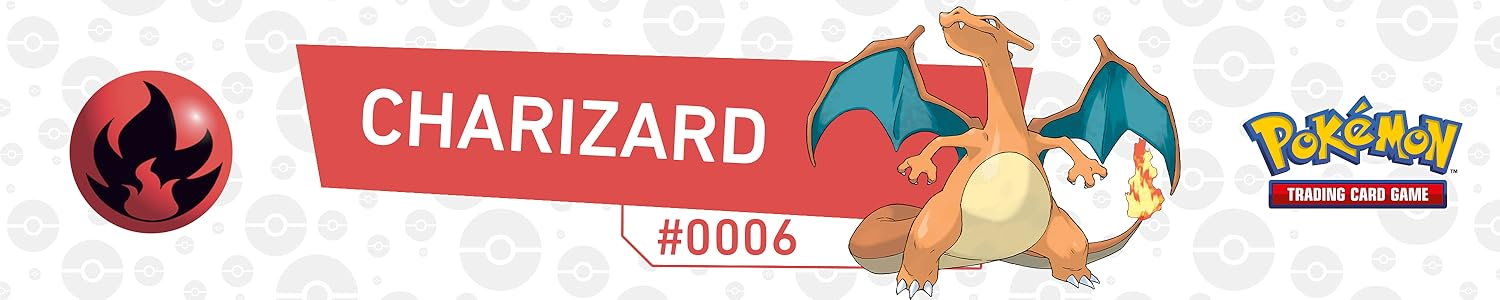
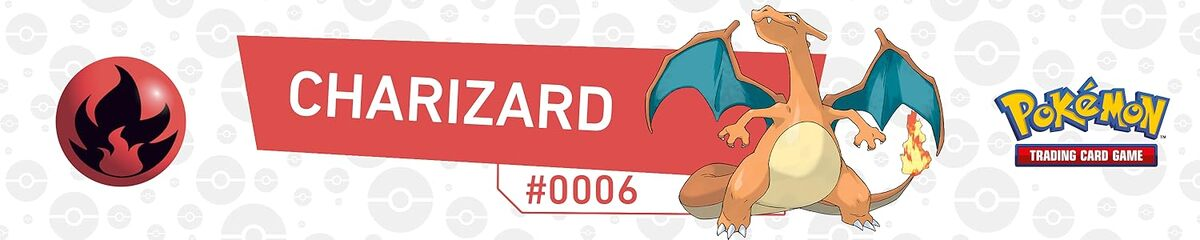
Correcciones en imagenes, mejoras en el responsivo. Falta sumar 1 escalon adicional de responsivo. Paleta de colores aun en analisis.

diff --git a/css/style.css b/css/style.css
@@ -17,7 +17,6 @@ html {
 }
 
 body {
-  line-height: 1.5;
   font-family: sans-serif;
   background-color: #fff;
   color: #000;
@@ -145,6 +144,7 @@ html, .body {
   display: flex;
   overflow: hidden;
   border-radius: 5px;
+  max-height: 38px;
 }
 .input-con-boton input[type=search] {
   flex: 1;
@@ -315,7 +315,7 @@ html, .body {
   font-size: 2rem;
   font-weight: bold;
   z-index: 2;
-  text-shadow: -1px -1px 2px rgba(0, 0, 0, 0.4), 1px -1px 2px rgba(0, 0, 0, 0.4), -1px 1px 2px rgba(0, 0, 0, 0.4), 1px 1px 2px rgba(0, 0, 0, 0.4);
+  text-shadow: -1px -1px 1px rgba(255, 255, 255, 0.5), 1px -1px 1px rgba(255, 255, 255, 0.5), -1px 1px 1px rgba(255, 255, 255, 0.5), 1px 1px 1px rgba(255, 255, 255, 0.5);
 }
 .banner .span1 {
   top: 30%;
@@ -458,7 +458,7 @@ iframe {
 
 .banner .span-bulbasaur, .banner .span-bulbasaur {
   color: #BB8CAC;
-  text-shadow: -1px -1px 2px rgba(0, 0, 0, 0.4), 1px -1px 2px rgba(0, 0, 0, 0.4), -1px 1px 2px rgba(0, 0, 0, 0.4), 1px 1px 2px rgba(0, 0, 0, 0.4);
+  text-shadow: -1px -1px 1px rgba(255, 255, 255, 0.5), 1px -1px 1px rgba(255, 255, 255, 0.5), -1px 1px 1px rgba(255, 255, 255, 0.5), 1px 1px 1px rgba(255, 255, 255, 0.5);
 }
 
 .catalogo {
@@ -480,29 +480,32 @@ iframe {
   border: 1px solid black;
   border-radius: 12px;
 }
-.catalogo .div-detalles-producto {
+.catalogo .producto .div-detalles-producto {
   display: grid;
-  grid-template-rows: 0.7fr 4fr 2.2fr 1.1fr;
+  grid-template-rows: 0.7fr 4fr 2.3fr auto;
 }
-.catalogo .div-detalles-producto .nombre-ps {
+.catalogo .producto .div-detalles-producto .nombre-ps {
   display: flex;
   text-decoration: underline;
   justify-content: space-evenly;
 }
-.catalogo .div-detalles-producto .ataque {
+.catalogo .producto .div-detalles-producto .ataque {
   max-height: 103px;
   overflow-y: scroll;
 }
-.catalogo .div-detalles-producto .div-button {
+.catalogo .producto .div-detalles-producto .div-button {
   display: flex;
   justify-content: flex-end;
   align-items: center;
-  padding: 0 10px 0 0;
+  padding: 0 10px 10px 0;
 }
-.catalogo .div-detalles-producto .div-button a {
+.catalogo .producto .div-detalles-producto .div-button a {
   text-decoration: none;
 }
-.catalogo .div-detalles-producto .nombre-ps, .catalogo .div-detalles-producto .detalles, .catalogo .div-detalles-producto .ataque {
+.catalogo .producto .div-detalles-producto .ataque, .catalogo .producto .div-detalles-producto .detalles {
+  padding-left: 10px;
+}
+.catalogo .producto .div-detalles-producto .nombre-ps, .catalogo .producto .div-detalles-producto .detalles, .catalogo .producto .div-detalles-producto .ataque {
   color: #ffffff;
 }
 
@@ -516,7 +519,7 @@ iframe {
 .img-producto {
   max-width: 255px;
   width: auto;
-  max-height: 350px;
+  max-height: 355px;
   height: auto;
   border: 1px solid white;
   border-radius: 17px;
@@ -558,7 +561,7 @@ iframe {
 
 .banner .span-squirtle, .banner .span-squirtle {
   color: #DACCB2;
-  text-shadow: -1px -1px 2px rgba(0, 0, 0, 0.4), 1px -1px 2px rgba(0, 0, 0, 0.4), -1px 1px 2px rgba(0, 0, 0, 0.4), 1px 1px 2px rgba(0, 0, 0, 0.4);
+  text-shadow: -1px -1px 1px rgba(255, 255, 255, 0.5), 1px -1px 1px rgba(255, 255, 255, 0.5), -1px 1px 1px rgba(255, 255, 255, 0.5), 1px 1px 1px rgba(255, 255, 255, 0.5);
 }
 
 .main-contacto {
@@ -711,7 +714,7 @@ iframe {
 
 .banner .span-pikachu, .banner .span-pikachu {
   color: #E7C774;
-  text-shadow: -1px -1px 2px rgba(0, 0, 0, 0.4), 1px -1px 2px rgba(0, 0, 0, 0.4), -1px 1px 2px rgba(0, 0, 0, 0.4), 1px 1px 2px rgba(0, 0, 0, 0.4);
+  text-shadow: -1px -1px 1px rgba(255, 255, 255, 0.5), 1px -1px 1px rgba(255, 255, 255, 0.5), -1px 1px 1px rgba(255, 255, 255, 0.5), 1px 1px 1px rgba(255, 255, 255, 0.5);
 }
 
 .main-nosotros {
@@ -792,7 +795,7 @@ iframe {
 
 .banner .span-charizard, .banner .span-charizard {
   color: #419EAF;
-  text-shadow: -1px -1px 2px rgba(0, 0, 0, 0.4), 1px -1px 2px rgba(0, 0, 0, 0.4), -1px 1px 2px rgba(0, 0, 0, 0.4), 1px 1px 2px rgba(0, 0, 0, 0.4);
+  text-shadow: -1px -1px 1px rgba(255, 255, 255, 0.5), 1px -1px 1px rgba(255, 255, 255, 0.5), -1px 1px 1px rgba(255, 255, 255, 0.5), 1px 1px 1px rgba(255, 255, 255, 0.5);
 }
 
 .main-ofertas {

diff --git a/sass/pages/_catalogo.scss b/sass/pages/_catalogo.scss
@@ -34,7 +34,7 @@
 
 .banner .span-bulbasaur, .banner .span-bulbasaur {
     color: $color-destacar-0001;
-    @include tshadow(rgba(0, 0, 0, 0.4));
+    @include tshadow(rgba(255, 255, 255, 0.5));
 }
 
 .catalogo {
@@ -54,36 +54,41 @@
         width: 100%;
         border: 1px solid black; 
         border-radius: 12px;
+        .div-detalles-producto {
+            display: grid;
+            grid-template-rows: 0.7fr 4fr 2.3fr auto;
+            .nombre-ps {
+                display: flex;
+                text-decoration: underline;
+                justify-content: space-evenly;
+            }
+            
+            .ataque {
+                max-height: 103px;
+                overflow-y: scroll;
+            }
+            
+            .div-button {
+                display: flex;
+                justify-content: flex-end;
+                align-items: center;
+                padding: 0 10px 10px 0;
+            }
+            
+            .div-button a {
+                text-decoration: none;
+            }
+
+            .ataque, .detalles {
+                padding-left: $padding10;
+            }
+            
+            .nombre-ps, .detalles, .ataque {
+                color: #ffffff;
+            }
+        }
     }
-    .div-detalles-producto {
-        display: grid;
-        grid-template-rows: 0.7fr 4fr 2.2fr 1.1fr;
-        .nombre-ps {
-            display: flex;
-            text-decoration: underline;
-            justify-content: space-evenly;
-        }
-        
-        .ataque {
-            max-height: 103px;
-            overflow-y: scroll;
-        }
-        
-        .div-button {
-            display: flex;
-            justify-content: flex-end;
-            align-items: center;
-            padding: 0 10px 0 0;
-        }
-        
-        .div-button a {
-            text-decoration: none;
-        }
-        
-        .nombre-ps, .detalles, .ataque {
-            color: #ffffff;
-        }
-    }
+    
 }
 .div-img-producto {
     padding: 10px;
@@ -94,7 +99,7 @@
 .img-producto {
     max-width: 255px;
     width: auto;
-    max-height: 350px;
+    max-height: 355px;
     height: auto;
     border: 1px solid white;
     border-radius: $radius-cartas;

diff --git a/sass/pages/_ofertas.scss b/sass/pages/_ofertas.scss
@@ -23,7 +23,7 @@
 
 .banner .span-charizard, .banner .span-charizard {
     color: $color-destacar-0006;
-    @include tshadow(rgba(0, 0, 0, 0.4));
+    @include tshadow(rgba(255, 255, 255, 0.5));
 }
 
 .main-ofertas {
@@ -114,7 +114,7 @@
                 tbody {
                     tr:last-child {
                         td {
-                            border-bottom: none; // eliminamos para que no sobrescriba el borde del table
+                            border-bottom: none;
                         }
                     }
                 }

diff --git a/sass/abstracts/_mixins.scss b/sass/abstracts/_mixins.scss
@@ -32,9 +32,9 @@
 
 @mixin tshadow($color-shadow) {
     text-shadow:
-    -1px -1px 2px $color-shadow,
-    1px -1px 2px $color-shadow,
-    -1px  1px 2px $color-shadow,
-    1px  1px 2px $color-shadow;
+    -1px -1px 1px $color-shadow,
+    1px -1px 1px $color-shadow,
+    -1px  1px 1px $color-shadow,
+    1px  1px 1px $color-shadow;
     // 0px  0px 4px $color-shadow;
 }

diff --git a/sass/layout/_main-banner.scss b/sass/layout/_main-banner.scss
@@ -33,7 +33,7 @@
         font-size: 2rem;
         font-weight: bold;
         z-index: 2;
-        @include tshadow(rgba(0, 0, 0, 0.4));
+        @include tshadow(rgba(255, 255, 255, 0.5));
     }
     .span1 {
         top: 30%;

diff --git a/sass/pages/_contacto.scss b/sass/pages/_contacto.scss
@@ -23,7 +23,7 @@
 
 .banner .span-squirtle, .banner .span-squirtle {
     color: $color-destacar-0007;
-    @include tshadow(rgba(0, 0, 0, 0.4));
+    @include tshadow(rgba(255, 255, 255, 0.5));
 }
 
 .main-contacto {

diff --git a/sass/pages/_nosotros.scss b/sass/pages/_nosotros.scss
@@ -23,7 +23,7 @@
 
 .banner .span-pikachu, .banner .span-pikachu {
     color: $bg-header-footer-0025;
-    @include tshadow(rgba(0, 0, 0, 0.4));
+    @include tshadow(rgba(255, 255, 255, 0.5));
 }
 
 .main-nosotros {

diff --git a/sass/layout/_header.scss b/sass/layout/_header.scss
@@ -38,6 +38,7 @@
     display: flex;
     overflow: hidden;
     border-radius: $radius5;
+    max-height: 38px;
     input[type="search"] {
         flex: 1;
         border: none;

diff --git a/sass/base/_reset.scss b/sass/base/_reset.scss
@@ -14,7 +14,7 @@ html {
 }
 
 body {
-    line-height: 1.5;
+    // line-height: 1.5;
     font-family: sans-serif;
     background-color: #fff;
     color: #000;
